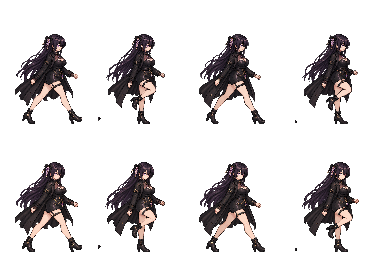
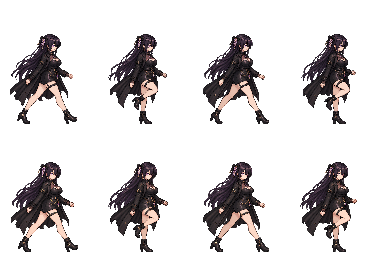
Stabilize Kuroe walking and mask cameo behind house edges

diff --git a/docs/KUROE_CAMEO_REVIEW.md b/docs/KUROE_CAMEO_REVIEW.md
@@ -1,5 +1,13 @@
 # Kuroe első cameo — 2026-10-03 REVIEW
 
+## Frissített mozgás és takarás
+
+Az alábbi első változat áttűnése felülírva: Kuroe most (380,177) → (685,177) útvonalon halad 45 px/s sebességgel, a két végén már a házak takarásában. A karakter és árnyéka világkoordinátás, ferde épületszél-maszkot használ; nincs alfa-áttűnés. A pillantás az x=500–536 szakaszon történik, a járás fázisának megszakítása nélkül. A teljes technikai út 6.78 másodperc, ebből a két takart végszakasz nem látszik.
+
+Az atlasz felsőtestének vízszintes igazítása a fej stabil középpontját követi, nem a támaszkodó láb váltakozó helyét. A talajszint változatlan. A forráscellák alsó bal szélén átlógó, idegen cipőpixelek eltávolítva. A járás továbbra is négyfázisú REVIEW, nem végleges kézi animáció.
+
+A cameo-teszt és a külön belépő/kilépő grafikus rögzítések sikeresek: review/kuroe_occlusion_425.png és review/kuroe_occlusion_625.png.
+
 A jóváhagyott karakterreferencia alapján külön REVIEW járó- és pillantó atlasz készült. A hosszan lila haj, fekete kabát/ruha, hajdísz és ametiszt részletek megmaradnak. A generálás és technikai csomagolás az assets/opening/kuroe_cameo/generation.md fájlban dokumentálva.
 
 A falusi kontrollátadás után, Akira y <= 245 pozíciójánál indul a négy másodperces áthaladás. Kuroe a házköz felőli háttérsávban (455,177) → (615,177) halad. 1.3–2.1 másodperc között a közelben lévő Akira felé néz; a járás nem áll meg. Nincs névtábla, párbeszéd vagy kontrollzár. Nem kerül az ambient szövegező NPC-listába. A befejezés vagy helyszínelhagyás eltünteti, kuroe_cameo_passed flaget állítja. Új játék törli.
